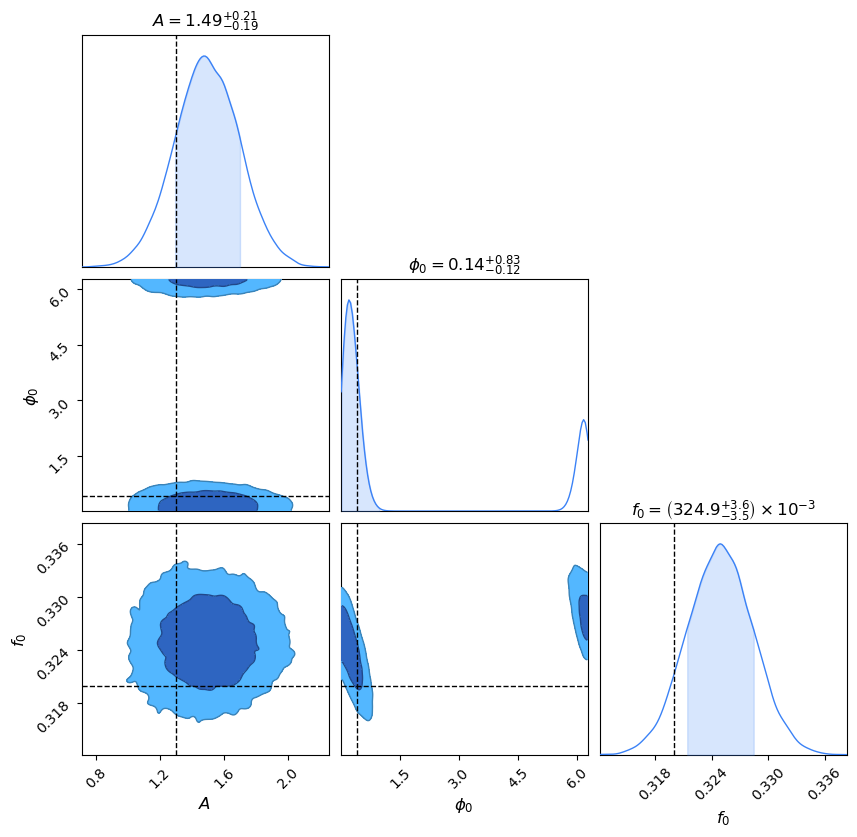
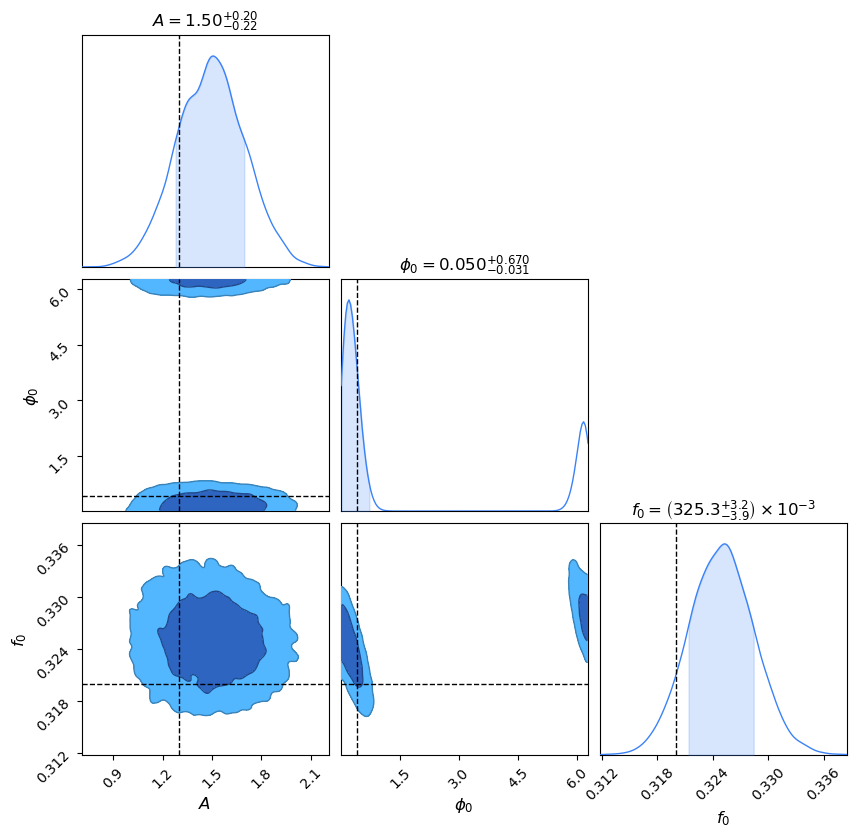
Minor edits to plots and plotting code

diff --git a/docs/source/sections/mcmc_the-bump/mcmc_the-bump.md b/docs/source/sections/mcmc_the-bump/mcmc_the-bump.md
@@ -4,7 +4,7 @@ Alright, we finally have enough background to cook up our first MCMC!
 
 ## Ingredients
 
-Here is the list of ingredients that we are going to use in this MCMC:
+Here are the ingredients that we are going to use in this MCMC:
 
 ````{tab-set}
 
@@ -178,7 +178,7 @@ def ln_like(param, data, sigma_n, times):
     return (- (data - M)**2 / (2*sigma_n**2)).sum()
 ```
 
-Let's do a couple of quick sanity checks, just to basically make sure that our functions are working the way we expect:
+**Sanity Check:** Let's test the output of our prior and likelihood functions to make sure that they work the way we expect:
 
 
 ```python
@@ -341,7 +341,7 @@ for i in tqdm(range(1,Nsample)):
             x_samples[i,:] = x_current
 ```
 
-    100%|█████████████████████████████████████████████████████████████████████████████████████████████████████████████| 199999/199999 [02:26<00:00, 1369.12it/s]
+    100%|█████████████████████████████████████████████████████████████████████████████████████████████████████████████| 199999/199999 [02:13<00:00, 1493.06it/s]
 
 
 That's all there is to it!  The entire MCMC "black box" fits in the above code block.  Hopefully now that we have broken things down line-by-line, it isn't so daunting to understand.  We just cooked up a simple MCMC!
@@ -363,10 +363,17 @@ label = [r'$t_0$']
 #--------------
 
 fig, ax = plt.subplots(1,1,figsize=(12,2), sharex=True)
-plt.subplots_adjust(hspace=0.05)
 
+# Set-up axes to match priors
+# --> grab the upper/lower limits for each prior
+ax.set_ylim([prior['t0'].support()[0], prior['t0'].support()[1]])
+
+# Plot samples
 ax.scatter(np.arange(0,Nsample,1), x_samples, s=0.5)
+# Plot injection
 ax.axhline(injection, color='k', linestyle='--')
+
+# Titles/Labels
 ax.set_ylabel(label[0], fontsize=12), ax.set_xlabel('Iteration', fontsize=12)
 ax.set_title('Burn-in')
 
@@ -437,6 +444,7 @@ Let's also look examples of the MCMC inferences.
 
 fig, ax = plt.subplots(1,1,figsize=(8,5))
 
+# plot the data
 ax.plot(times, data,   color='gray', alpha=0.5, label='data')
 
 # Randomly select a subset of parameter samples
@@ -447,14 +455,19 @@ for ind in indices:
     model = Model(x_samples_final[ind,:], times)
     ax.plot(times, model, color='r', alpha=2/nselect)
 
+# plot the signal
 ax.plot(times, signal, color='C0', label='signal')
+
+# Titles/Labels
+ax.set_title('MCMC Inferences')
 
 # Manually add the 'MCMC inferences' line to the legend
 handles, labels = ax.get_legend_handles_labels()
-line = Line2D([0], [0], label='MCMC inferences', color='r')
+line = Line2D([0], [0], label='MCMC samples', color='r')
 handles.extend([line])
 
 ax.legend(handles=handles), ax.set_xlabel('time', fontsize=12)
+
 plt.show()
 ```
 
@@ -631,7 +644,7 @@ def ln_like(param, data, sigma_n, times):
     return (- (data - M)**2 / (2*sigma_n**2)).sum()
 ```
 
-Let's do a couple of quick sanity checks, just to basically make sure that our functions are working the way we expect:
+**Sanity Check:** Let's test the output of our prior and likelihood functions to make sure that they work the way we expect:
 
 
 ```python
@@ -810,7 +823,7 @@ for i in tqdm(range(1,Nsample)):
             x_samples[i,:] = x_current
 ```
 
-    100%|█████████████████████████████████████████████████████████████████████████████████████████████████████████████| 199999/199999 [00:54<00:00, 3680.03it/s]
+    100%|█████████████████████████████████████████████████████████████████████████████████████████████████████████████| 199999/199999 [00:55<00:00, 3615.38it/s]
 
 
 That's all there is to it!  The entire MCMC "black box" fits in the above code block.  Hopefully now that we have broken things down line-by-line, it isn't so daunting to understand.  We just cooked up a simple MCMC!
@@ -840,13 +853,26 @@ label = [r'$t_0$', r'$\sigma$']
 #--------------
 
 fig, ax = plt.subplots(Ndim,1,figsize=(12,2*Ndim), sharex=True)
-plt.subplots_adjust(hspace=0.05)
+plt.subplots_adjust(hspace=0.1)
 
+# Set-up axes to match priors
+# --> scale the y-axis to the prior search scale
+ax[1].set_yscale('log')
+# --> grab the upper/lower limits for each prior
+ax[0].set_ylim([prior['t0'].support()[0], prior['t0'].support()[1]]), ax[1].set_ylim([prior['sigma'].a, prior['sigma'].b])
+
+
+# Plot samples
 for i in range(Ndim):
     ax[i].scatter(np.arange(0,Nsample,1), x_samples[:,i], s=0.5)
+
+    # Plot injections
     ax[i].axhline(injection[i], color='k', linestyle='--')
+
+    # y-axis labels
     ax[i].set_ylabel(label[i], fontsize=12)
 
+# Titles/Labels
 ax[-1].set_xlabel('Iteration', fontsize=12)
 ax[0].set_title('Burn-in')
 
@@ -917,6 +943,7 @@ Let's also look examples of the MCMC inferences.
 
 fig, ax = plt.subplots(1,1,figsize=(8,5))
 
+# plot the data
 ax.plot(times, data,   color='gray', alpha=0.5, label='data')
 
 # Randomly select a subset of parameter samples
@@ -927,14 +954,19 @@ for ind in indices:
     model = Model(*x_samples_final[ind,:], times)
     ax.plot(times, model, color='r', alpha=2/nselect)
 
+# plot the signal
 ax.plot(times, signal, color='C0', label='signal')
+
+# Titles/Labels
+ax.set_title('MCMC Inferences')
 
 # Manually add the 'MCMC inferences' line to the legend
 handles, labels = ax.get_legend_handles_labels()
-line = Line2D([0], [0], label='MCMC inferences', color='r')
+line = Line2D([0], [0], label='MCMC samples', color='r')
 handles.extend([line])
 
 ax.legend(handles=handles), ax.set_xlabel('time', fontsize=12)
+
 plt.show()
 ```
 
@@ -1108,7 +1140,7 @@ def ln_like(param, data, sigma_n, times):
     return (- (data - M)**2 / (2*sigma_n**2)).sum()
 ```
 
-Let's do a couple of quick sanity checks, just to basically make sure that our functions are working the way we expect:
+**Sanity Check:** Let's test the output of our prior and likelihood functions to make sure that they work the way we expect:
 
 
 ```python
@@ -1279,7 +1311,7 @@ for i in tqdm(range(1,Nsample)):
             x_samples[i,:] = x_current
 ```
 
-    100%|█████████████████████████████████████████████████████████████████████████████████████████████████████████████| 199999/199999 [01:14<00:00, 2691.06it/s]
+    100%|█████████████████████████████████████████████████████████████████████████████████████████████████████████████| 199999/199999 [01:14<00:00, 2685.38it/s]
 
 
 That's all there is to it!  The entire MCMC "black box" fits in the above code block.  Hopefully now that we have broken things down line-by-line, it isn't so daunting to understand.  We just cooked up a simple MCMC!
@@ -1307,13 +1339,25 @@ label = [r'$A$', r'$t_0$', r'$\sigma$']
 #--------------
 
 fig, ax = plt.subplots(Ndim,1,figsize=(12,2*Ndim), sharex=True)
-plt.subplots_adjust(hspace=0.05)
+plt.subplots_adjust(hspace=0.1)
 
+# Set-up axes to match priors
+# --> scale the y-axis to the prior search scale
+ax[0].set_yscale('log'), ax[2].set_yscale('log')
+# --> grab the upper/lower limits for each prior
+ax[0].set_ylim([prior['A'].a, prior['A'].b]), ax[1].set_ylim([prior['t0'].support()[0], prior['t0'].support()[1]]), ax[2].set_ylim([prior['sigma'].a, prior['sigma'].b])
+
+# Plot samples
 for i in range(Ndim):
     ax[i].scatter(np.arange(0,Nsample,1), x_samples[:,i], s=0.5)
+    
+    # Plot injections
     ax[i].axhline(injection[i], color='k', linestyle='--')
+
+    # y-axis labels
     ax[i].set_ylabel(label[i], fontsize=12)
 
+# Titles/Labels
 ax[-1].set_xlabel('Iteration', fontsize=12)
 ax[0].set_title('Burn-in')
 
@@ -1384,6 +1428,7 @@ Let's also look examples of the MCMC inferences.
 
 fig, ax = plt.subplots(1,1,figsize=(8,5))
 
+# plot the data
 ax.plot(times, data,   color='gray', alpha=0.5, label='data')
 
 # Randomly select a subset of parameter samples
@@ -1394,14 +1439,19 @@ for ind in indices:
     model = Model(*x_samples_final[ind,:], times)
     ax.plot(times, model, color='r', alpha=2/nselect)
 
+# plot the signal
 ax.plot(times, signal, color='C0', label='signal')
 
-# Manually add the 'MCMC inferences' line to the legend
+# Titles/Labels
+ax.set_title('MCMC Inferences')
+
+# --> manually add the 'MCMC inferences' line to the legend
 handles, labels = ax.get_legend_handles_labels()
-line = Line2D([0], [0], label='MCMC inferences', color='r')
+line = Line2D([0], [0], label='MCMC samples', color='r')
 handles.extend([line])
 
 ax.legend(handles=handles), ax.set_xlabel('time', fontsize=12)
+
 plt.show()
 ```
 

diff --git a/docs/source/sections/mcmc_the-wave/mcmc_the-wave.md b/docs/source/sections/mcmc_the-wave/mcmc_the-wave.md
@@ -188,7 +188,7 @@ def ln_like(param, data, sigma_n, times):
     return (- (data - M)**2 / (2*sigma_n**2)).sum()
 ```
 
-Let's do a couple of quick sanity checks, just to basically make sure that our functions are working the way we expect:
+**Sanity Check:** Let's test the output of our prior and likelihood functions to make sure that they work the way we expect:
 
 
 ```python
@@ -357,7 +357,7 @@ for i in tqdm(range(1,Nsample)):
             x_samples[i,:] = x_current
 ```
 
-    100%|█████████████████████████████████████████████████████████████████████████████████████████████████████████████| 199999/199999 [01:16<00:00, 2607.54it/s]
+    100%|█████████████████████████████████████████████████████████████████████████████████████████████████████████████| 199999/199999 [01:14<00:00, 2695.04it/s]
 
 
 
@@ -383,13 +383,25 @@ label = [r'$A$', r'$\phi_0$', r'$f_0$']
 #--------------
 
 fig, ax = plt.subplots(Ndim,1,figsize=(12,2*Ndim), sharex=True)
-plt.subplots_adjust(hspace=0.05)
+plt.subplots_adjust(hspace=0.1)
 
+# Set-up axes to match priors
+# --> scale the y-axis to the prior search scale
+ax[0].set_yscale('log'), ax[2].set_yscale('log')
+# --> grab the upper/lower limits for each prior
+ax[0].set_ylim([prior['A'].a, prior['A'].b]), ax[1].set_ylim([prior['phi0'].support()[0], prior['phi0'].support()[1]]), ax[2].set_ylim([prior['f0'].a, prior['f0'].b])
+
+# Plot samples
 for i in range(Ndim):
     ax[i].scatter(np.arange(0,Nsample,1), x_samples[:,i], s=0.5)
+    
+    # Plot injections
     ax[i].axhline(injection[i], color='k', linestyle='--')
+
+    # y-axis labels
     ax[i].set_ylabel(label[i], fontsize=12)
 
+# Titles/Labels
 ax[-1].set_xlabel('Iteration', fontsize=12)
 ax[0].set_title('Burn-in')
 
@@ -410,12 +422,13 @@ plt.show()
 
 fig, ax = plt.subplots(1,1,figsize=(12,2), sharex=True)
 plt.subplots_adjust(hspace=0.05)
+ax.set_ylim([0,1])
 
 ax.scatter(np.arange(1,Nsample,1), jump_acceptance_ratio_inmodel, s=0.5)
-ax.set_ylabel('In-Model Jump\nAcceptance Ratio', fontsize=12)
 ax.text(0.86, 0.82, 'Average = {0:0.2f}'.format(jump_acceptance_ratio_inmodel.mean()), transform=ax.transAxes, bbox=dict(color='white',ec='k'));
 
-ax.set_xlabel('Iteration', fontsize=12)
+# Titles/Labels
+ax.set_xlabel('Iteration', fontsize=12), ax.set_ylabel('In-Model Jump\nAcceptance Ratio', fontsize=12)
 ax.set_title('Tracking Diagnostics')
 ax.grid()
 
@@ -433,7 +446,7 @@ Now that we have an idea of how long it took our sampler to burn-in, let's throw
 
 ```python
 # Discard (burn) samples
-burn = 20_000
+burn = 60_000
 
 # Final posterior samples
 # --> we will save two copies of the final samples: 
@@ -486,6 +499,7 @@ Let's also look examples of the MCMC inferences.
 
 fig, ax = plt.subplots(1,1,figsize=(8,5))
 
+# plot the data
 ax.plot(times, data,   color='gray', alpha=0.5, label='data')
 
 # Randomly select a subset of parameter samples
@@ -496,14 +510,19 @@ for ind in indices:
     model = Model(*x_samples_final[ind,:], times)
     ax.plot(times, model, color='r', alpha=2/nselect)
 
+# plot the signal
 ax.plot(times, signal, color='C0', label='signal')
 
-# Manually add the 'MCMC inferences' line to the legend
+# Titles/Labels
+ax.set_title('MCMC Inferences')
+
+# --> manually add the 'MCMC inferences' line to the legend
 handles, labels = ax.get_legend_handles_labels()
-line = Line2D([0], [0], label='MCMC inferences', color='r')
+line = Line2D([0], [0], label='MCMC samples', color='r')
 handles.extend([line])
 
 ax.legend(handles=handles), ax.set_xlabel('time', fontsize=12)
+
 plt.show()
 ```
 

diff --git a/docs/source/sections/tracking_in-model_jumps/tracking_in-model_jumps.md b/docs/source/sections/tracking_in-model_jumps/tracking_in-model_jumps.md
@@ -204,12 +204,13 @@ Now we can add this to our set of plots that we make to visualize the results of
 
 fig, ax = plt.subplots(1,1,figsize=(12,2), sharex=True)
 plt.subplots_adjust(hspace=0.05)
+ax.set_ylim([0,1])
 
 ax.scatter(np.arange(1,Nsample,1), jump_acceptance_ratio_inmodel, s=0.5)
-ax.set_ylabel('In-Model Jump\nAcceptance Ratio', fontsize=12)
 ax.text(0.86, 0.82, 'Average = {0:0.2f}'.format(jump_acceptance_ratio_inmodel.mean()), transform=ax.transAxes, bbox=dict(color='white',ec='k'));
 
-ax.set_xlabel('Iteration', fontsize=12)
+# Titles/Labels
+ax.set_xlabel('Iteration', fontsize=12), ax.set_ylabel('In-Model Jump\nAcceptance Ratio', fontsize=12)
 ax.set_title('Tracking Diagnostics')
 ax.grid()
 

diff --git a/docs/source/sections/mcmc_multi-bump/mcmc_multi-bump.md b/docs/source/sections/mcmc_multi-bump/mcmc_multi-bump.md
@@ -536,10 +536,10 @@ plt.subplots_adjust(hspace=0.05)
 ax.set_ylim([0,1])
 
 ax.scatter(np.arange(1,Nsample,1), jump_acceptance_ratio_inmodel, s=0.5)
-ax.set_ylabel('In-Model Jump\nAcceptance Ratio', fontsize=12)
 ax.text(0.86, 0.82, 'Average = {0:0.2f}'.format(jump_acceptance_ratio_inmodel.mean()), transform=ax.transAxes, bbox=dict(color='white',ec='k'));
 
-ax.set_xlabel('Iteration', fontsize=12)
+# Titles/Labels
+ax.set_xlabel('Iteration', fontsize=12), ax.set_ylabel('In-Model Jump\nAcceptance Ratio', fontsize=12)
 ax.set_title('Tracking Diagnostics')
 ax.grid()
 
